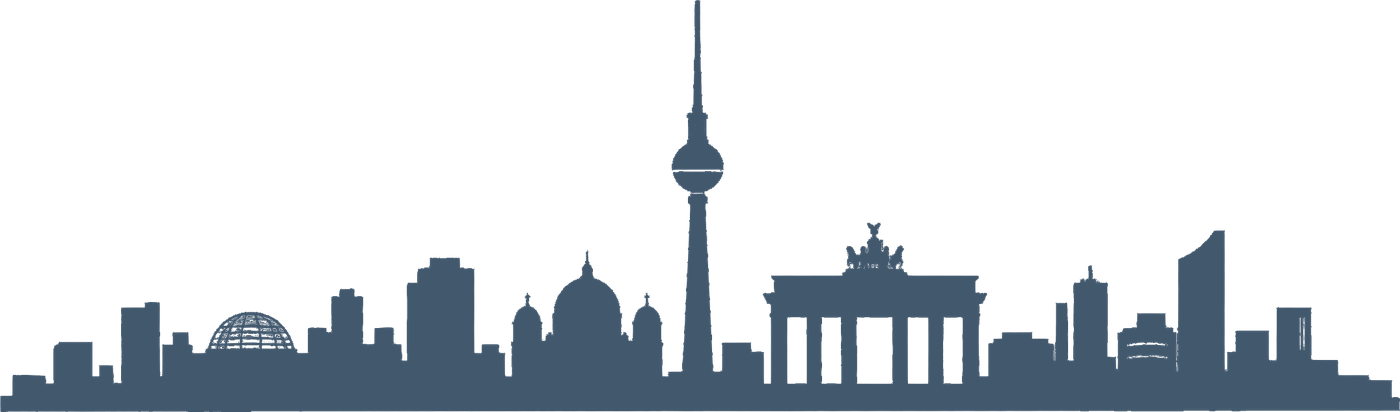
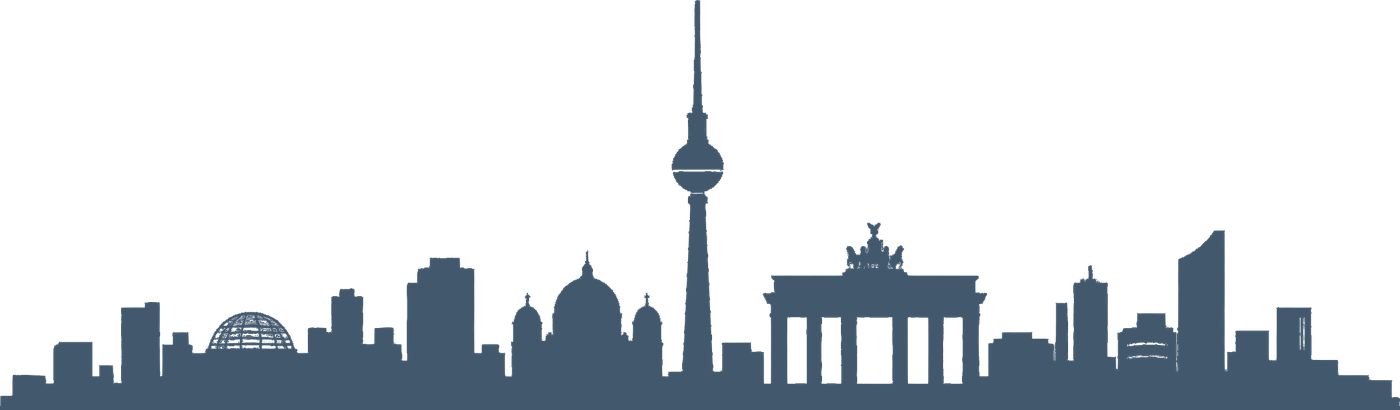
PR14: dunkle Schrift auf Grün und dichte Skyline (#14)
Primärbuttons und der gesperrte Senden-Button nutzen dunkle Schrift. Die Skyline überlappt den Footer um einen Pixel, damit keine helle Linie bleibt.

diff --git a/style.css b/style.css
@@ -428,8 +428,8 @@ body{background:#fff}
 }
 .btn{border-radius:8px;min-height:44px;font-weight:800}
 .btn--klein{min-height:0;padding:10px 16px;border-radius:8px;font-size:13px}
-.btn--primaer{background:var(--gruen);color:var(--blau);box-shadow:none}
-.btn--primaer:hover{background:#b6e24a;color:var(--blau);transform:none;box-shadow:none}
+.btn--primaer{background:var(--gruen);color:var(--ink);box-shadow:none}
+.btn--primaer:hover{background:#b6e24a;color:var(--ink);transform:none;box-shadow:none}
 .btn--primaer::after,.btn--primaer:hover::after{content:none}
 .btn:focus-visible{outline:3px solid var(--blau);outline-offset:3px;box-shadow:0 0 0 6px rgba(162,216,30,.45)}
 .kopf__cta{animation:none}
@@ -498,9 +498,26 @@ body{background:#fff}
   .hero__bg img{object-position:74% 68%;transform:none}
 }
 
-/* Skyline sitzt auf dem Hintergrund der Kontaktsektion und schließt unten am Footer an. */
-.skyline{background:#f4f6f4;margin:0;padding:0;line-height:0}
-.skyline img{display:block;width:56%;max-width:560px;height:auto;margin:0}
+/* Skyline sitzt auf dem Hintergrund der Kontaktsektion und überlappt den Footer um 1px. */
+.skyline{background:#f4f6f4;line-height:0;font-size:0;padding:0;margin:0;border:0}
+.skyline .wrap{padding-bottom:0;margin-bottom:0}
+.skyline img{display:block;vertical-align:bottom;margin:0 0 -1px;position:relative;z-index:1;width:56%;max-width:560px;height:auto}
+.fuss{border-top:0}
 @media (max-width:640px){
   .skyline img{width:100%;max-width:none}
+}
+
+/* Gesperrter Primärbutton: deckendes Hellgrün, dunkle Schrift, Hover ändert nichts. */
+.btn[disabled],
+.btn[aria-disabled="true"],
+.btn--primaer[disabled],
+.btn--primaer[aria-disabled="true"],
+.btn--primaer[disabled]:hover,
+.btn--primaer[aria-disabled="true"]:hover{
+  opacity:1;
+  background:#d4ec9a;
+  color:var(--ink);
+  cursor:not-allowed;
+  transform:none;
+  box-shadow:none;
 }

diff --git a/index.html b/index.html
@@ -262,7 +262,7 @@
 
 <div class="skyline">
   <div class="wrap">
-    <img src="img/skyline-berlin.png" width="1400" height="412" loading="lazy" decoding="async" alt="" aria-hidden="true">
+    <img src="img/skyline-berlin.png" width="1400" height="410" loading="lazy" decoding="async" alt="" aria-hidden="true">
   </div>
 </div>
 
